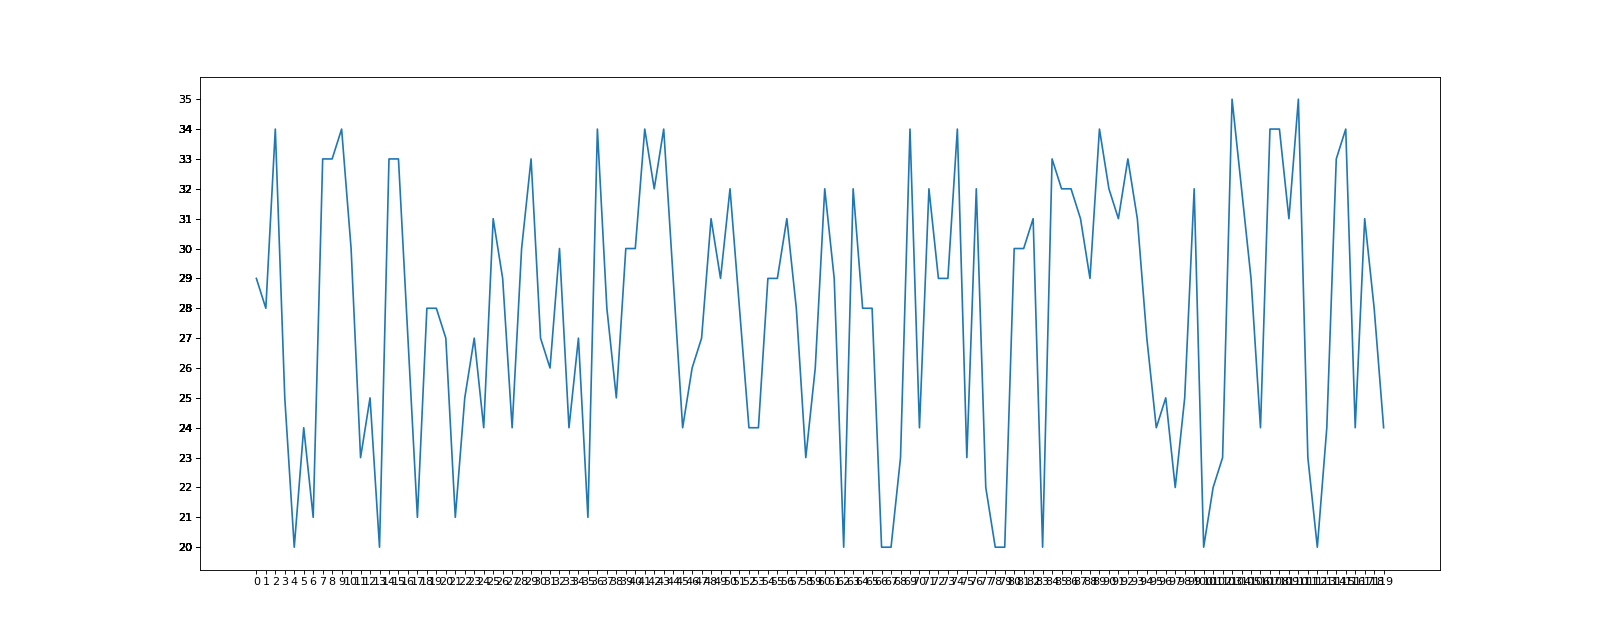
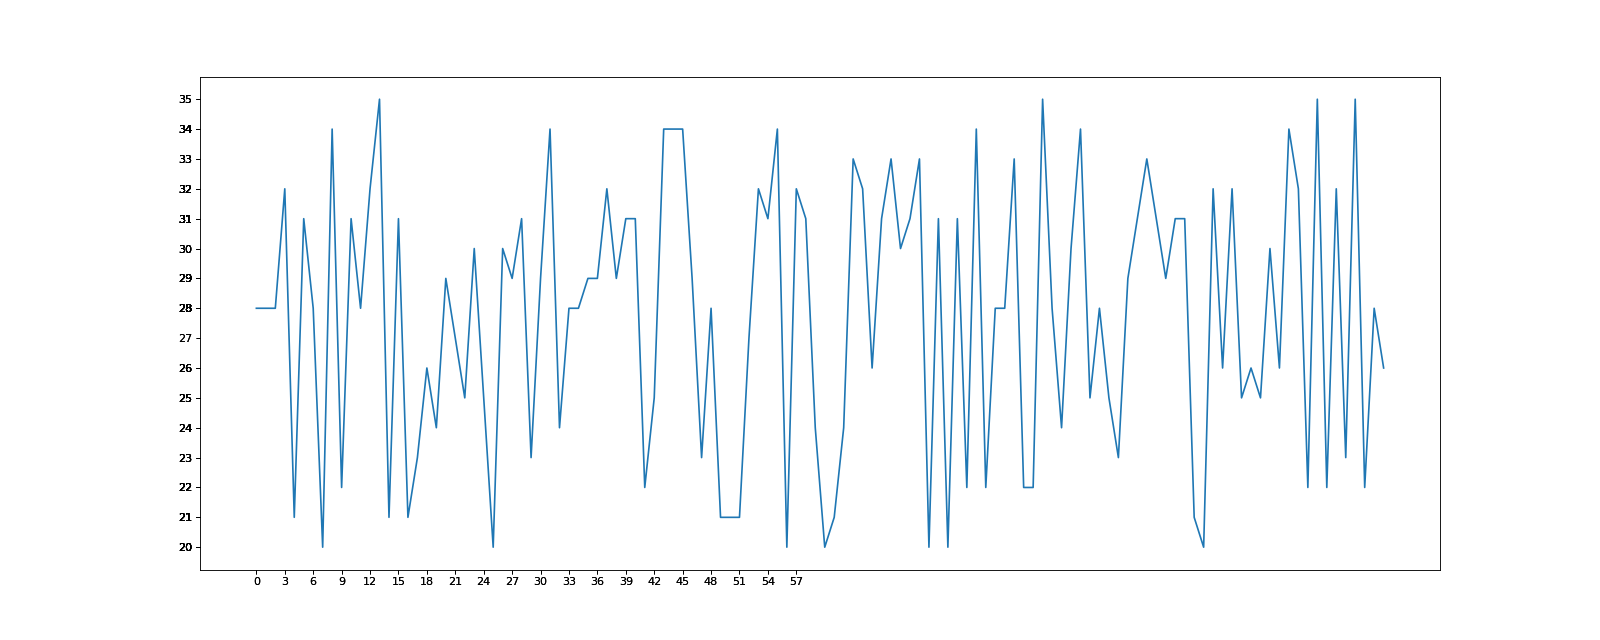
test

Changed region(s): [[0.1562, 0.1875, 0.875, 0.8438], [0.2188, 0.875, 0.875, 0.9375], [0.4375, 0.7812, 0.4688, 0.8125]]

diff --git a/Data Analyst Bootcamp/test01/test2.py b/Data Analyst Bootcamp/test01/test2.py
@@ -1,5 +1,4 @@
 import random
-import numpy as np
 from matplotlib import pyplot as plt
 
 x = range(0, 120)
@@ -8,7 +7,12 @@ y = [random.randint(20, 35) for i in range(120)]
 plt.figure(figsize=(20, 8), dpi=80)
 plt.plot(x, y)
 
-# x_mark = np.arange(10, 13, 0.25)
-plt.xticks(x)
+x_scale = []
+for i in range(0, 120, 4):
+    x_scale.append(i/)
+
+print(x_scale)
+
+plt.xticks(x_scale)
 plt.yticks(y)
 plt.savefig("./test2.png")

diff --git a/Data Analyst Bootcamp/test01/all_triangle.py b/Data Analyst Bootcamp/test01/all_triangle.py
@@ -1,0 +1,17 @@
+lines = input("Please enter how many line of * do you want for your star triangle: ")
+count = int(lines) + 1
+k = 1
+n = count
+while k < count:
+    for i in range(1, n):
+        print(" ", end = '')
+    for j in range(1, k + 1):
+        print(f"{k} ", end = '')
+    print("\n")
+    k = k + 1
+    n = n - 1
+
+
+
+
+
